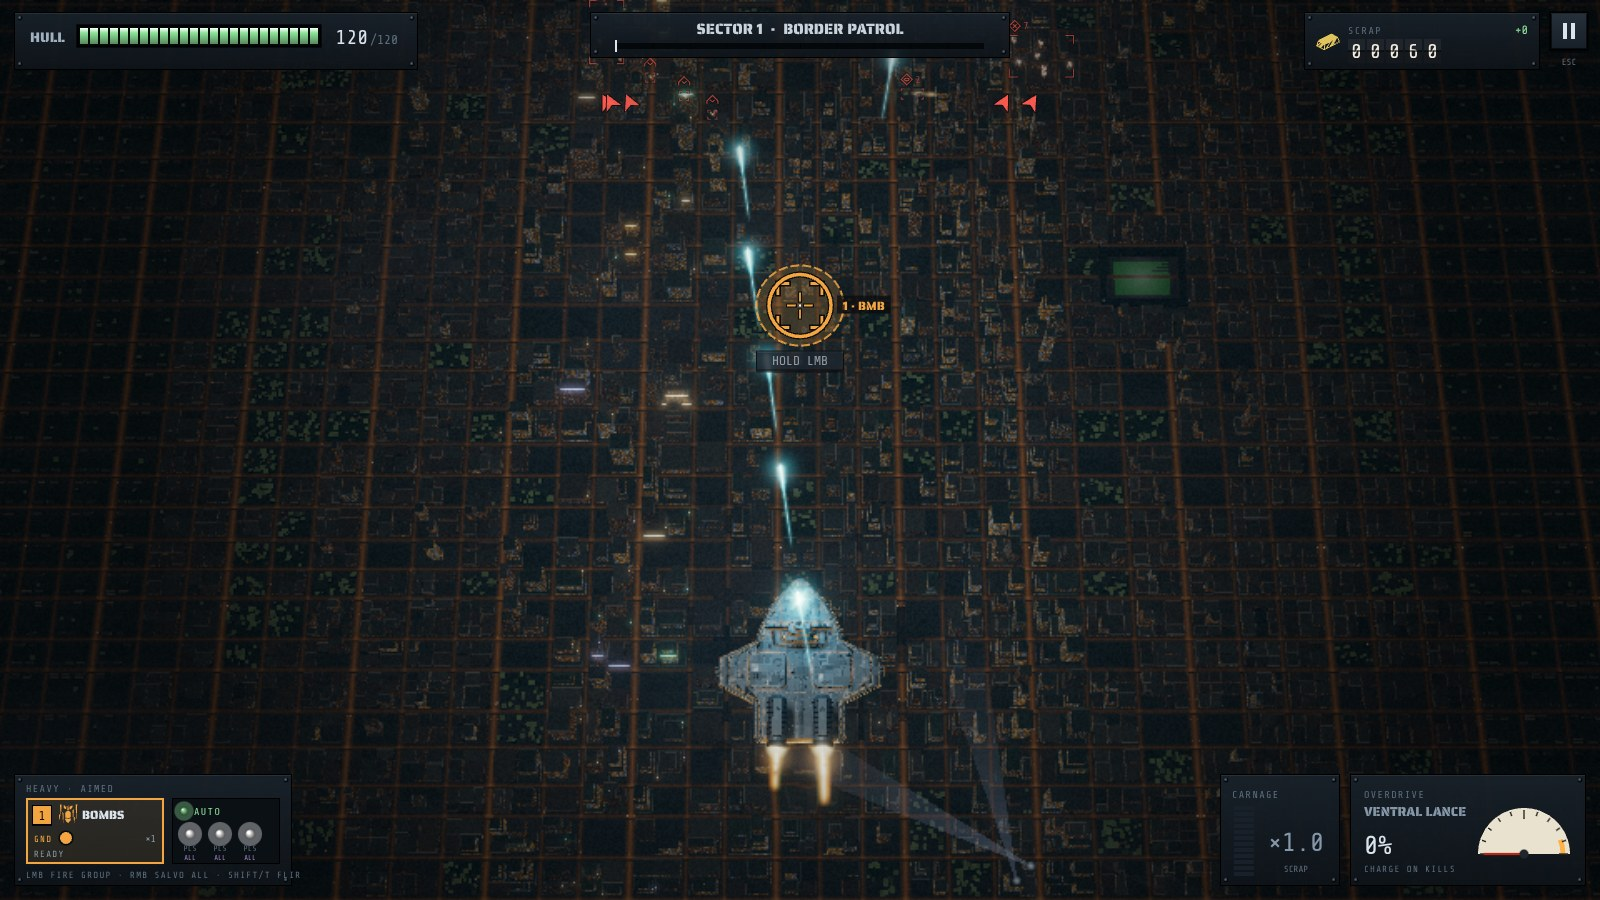
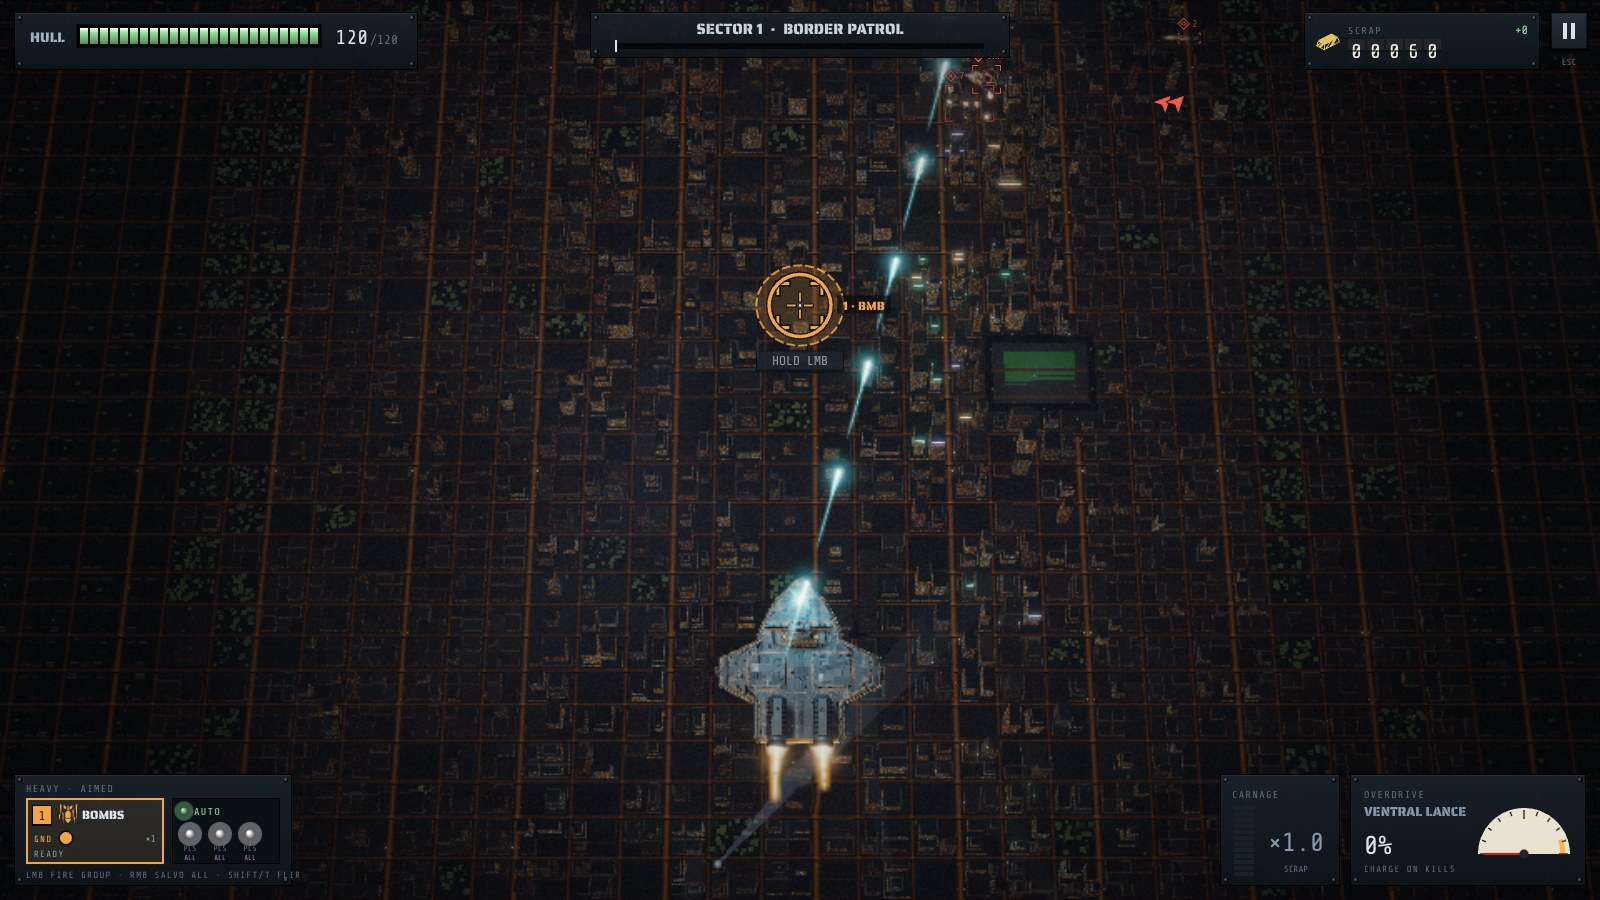
World polish: open boxes, smaller pools; docs and before/after screenshots
Claude-Session: https://claude.ai/code/session_013gCGajPg7k7sM5MfjeQhGC

diff --git a/src/render/world/city.ts b/src/render/world/city.ts
@@ -54,6 +54,15 @@ const LIGHT_COL: THREE.Color[] = [];
 interface Anchor { x: number; z: number; y: number; phase: number; b?: Bldg }
 interface Spot { x: number; y: number; z: number; s: number; seed: number; b?: Bldg }
 
+/** A unit box standing on y = 0 without its bottom face (never seen from above): a sixth fewer triangles. */
+function openBox() {
+  const g = new THREE.BoxGeometry(1, 1, 1).translate(0, 0.5, 0);
+  const idx = Array.from(g.index!.array as ArrayLike<number>);
+  g.setIndex(idx.slice(0, 18).concat(idx.slice(24)));
+  g.clearGroups();
+  return g;
+}
+
 /** An instanced flat quad batch with custom per-instance float attributes. */
 function quadBatch(max: number, names: string[], mat: THREE.Material) {
   const g = new THREE.InstancedBufferGeometry();
@@ -133,12 +142,12 @@ export class CityLayer implements Layer {
     const dome = new THREE.SphereGeometry(0.5, 14, 6, 0, Math.PI * 2, 0, Math.PI / 2).scale(1, 2, 1);
     dome.computeVertexNormals();
     this.bld = [
-      new BldBatch(new THREE.BoxGeometry(1, 1, 1).translate(0, 0.5, 0), mat, MAX_BLD),
+      new BldBatch(openBox(), mat, MAX_BLD),
       new BldBatch(new THREE.CylinderGeometry(0.5, 0.5, 1, 12).translate(0, 0.5, 0), mat, MAX_RND),
       new BldBatch(dome, mat, MAX_RND),
     ];
 
-    this.props = new THREE.InstancedMesh(new THREE.BoxGeometry(1, 1, 1).translate(0, 0.5, 0), cheapLights(new THREE.MeshLambertMaterial(), 'props'), MAX_PROP);
+    this.props = new THREE.InstancedMesh(openBox(), cheapLights(new THREE.MeshLambertMaterial(), 'props'), MAX_PROP);
     this.props.instanceColor = new THREE.InstancedBufferAttribute(new Float32Array(MAX_PROP * 3), 3);
     Object.assign(this.props, { count: 0, frustumCulled: false, receiveShadow: true });
 
@@ -278,7 +287,7 @@ export class CityLayer implements Layer {
         // Pinpoints are authored at their real size; from this altitude they need a couple of pixels to read, and they
         // stay just under the bloom threshold (a crisp point, not a glowing ball: only fires bloom).
         if (L.k === 9) { this.light(X(L.x), R(L.h), Z(L.cy), R(L.s), LIGHT_COL[L.c] ?? white, L.a, 9, 0, R(L.len ?? 10), L.ax ?? 0); continue; }
-        const pool = L.k === 1 || L.k === 4, sz = L.k === 4 ? L.s * 2.3 : pool ? L.s : Math.max(2.8, L.s * 2.6);
+        const pool = L.k === 1 || L.k === 4, sz = L.k === 4 ? L.s * 1.9 : pool ? L.s : Math.max(2.8, L.s * 2.6);
         const i = this.light(X(L.x), R(L.h), Z(L.cy), R(sz), LIGHT_COL[L.c] ?? white, pool ? L.a * (L.k === 4 ? 0.6 : 1.3) : Math.min(0.4, 0.12 + L.a * 0.45), L.k, L.p);
         if (L.b && i >= 0) this.bLights.push({ i, b: L.b });
         if (L.k === 8) this.sweeps.push({ x: X(L.x), y: R(L.h), z: Z(L.cy), s: R(L.s), seed: L.p, b: L.b });

diff --git a/docs/DESIGN.md b/docs/DESIGN.md
@@ -54,11 +54,13 @@ Everything is seen from very high up at night, in one stylized language: dark ma
 
 | Biome | Ground | Lights and structures | Set pieces | Destruction |
 | --- | --- | --- | --- | --- |
-| **Sodium City** (night city) | Asphalt grid, parks | Window grids, street glows, a teal-amber neon strip down one side of the core, traffic drift, searchlights | Floodlit stadium (a green pitch under four masts), TV tower with a beacon | Collapse, burning floors, rubble, craters; the blackout follows the ship |
-| **Iron Harbour** (port) | Dark water on the left with moonlit glitter, a pale line of surf; straight quays alternating with a natural shore | Gantry cranes with booms over the berths, colour-blocked container stacks under sodium masts, ships alongside with deck lights, tugs and freighters under way with V-wakes, channel buoys, warehouse district | Lighthouse on a breakwater sweeping its beam, oil terminal (tanker at a T-jetty, tank farm), drydock | Cranes, containers, ships and tank farms collapse and burn; tankers and tanks chain-react and spill burning oil; blasts on open water throw spray, no crater |
-| **Kestrel Airbase** | Dark grass, tree lines | Runways along the flight path with white edge and centre lights, teal threshold bars, amber end bars, an approach-light "rabbit" strobing toward the threshold; parallel taxiways with blue edges and green centre lines; apron floodlights, hangars with lit doors, control tower with a rotating white/teal beacon | Giant transport on the apron, hardened shelters, radar station | Parked aircraft burn and spill fuel; ammunition igloos and fuel farms chain-react |
-| **Glass Desert** | Dune ridges as soft graded shapes catching the moon, flat-topped mesas with hard escarpments, a dry wadi with palms | Walled adobe compounds with one warm light, a highway with convoys (headlight trains), a pipeline with pump stations, truck stops, oil fields of nodding donkeys with flare stacks, an oasis village with a dome and minaret | Rocket launch site (floodlit pad, gantry, flame trench), gas-oil separation plant, old citadel | Wellheads, flares, tanks and the rocket go up in fireballs and leave burning oil on the sand |
-| **White Range** (snow mountains) | Ridged mountains with cold moonlit faces and blue shadows, valleys, pines below the tree line, frozen lakes with crack lines | Valley roads with a few headlights, villages of snow-roofed cabins with warm windows and sodium street lamps, ice-fishing huts, ski-lift lights | Dam holding a frozen reservoir, pass fort, radar on the summit | Cabins collapse and burn; frozen lakes crack open into black water with steam; pines near a blast catch |
-| **Deepwood** (forest) | Dense canopy of clumped crowns catching the moon, clearings, clear-cuts, a winding river and lakes | Logging roads and spurs to clear-cut landings with log piles, small towns and farmsteads, river barges, a bridge where the road crosses the river | Lumber mill with a smoking stack and log rafts, a river dam, fire lookout tower | **Wildfire**: hits on the canopy start fires that run downwind through the trees for many seconds, setting cabins alight |
+| **Sodium City** (night city) | Asphalt grid, parks | Window grids, street glows, a teal-amber neon strip down one side of the core, traffic drift, searchlights | Floodlit stadium (a green pitch inside a ring of twelve floodlight masts), TV tower with a beacon | Collapse, burning floors, rubble, craters; the blackout follows the ship |
+| **Iron Harbour** (port) | Black water on the left with moonlit glitter and surf; pale concrete quays and yards; a darker district inland | Gantry cranes with booms over the berths and work lights on the ships, colour-blocked container stacks under broad sodium washes, straddle carriers, a logistics belt of lit loading docks and truck parks, ships alongside, at anchor and under way with V-wakes, channel buoys. Every natural-shore stretch carries something: a shipyard (hulls on slipways, tower cranes, welding sparks), a coastal refinery with a flare, a marina behind a lit breakwater, or a fishing village. Port lights run on their own generators: they stay on when the city grid dies under the ship | Lighthouse at the end of a long breakwater sweeping a twin beam over the sea, oil terminal (tanker at a T-jetty, a big floodlit tank farm), drydock (a ship in a black basin under two portal cranes) | Cranes, containers, ships and tank farms collapse and burn; tankers and tanks chain-react and spill burning oil; blasts on open water throw spray, no crater |
+| **Kestrel Airbase** | Near-black grass; dark runway asphalt with pale shoulders; a pale floodlit apron | Runways along the flight path drawn as two rails of white light (edge and centre lights plus a faint glowing line), teal threshold bars, amber end bars, an approach-light "rabbit" strobing toward the threshold; parallel taxiways with glowing blue edge lines and green centre lines; aircraft taxiing with wingtip lights and a pulsing beacon, service trucks on the apron; hangars with lit doors, control tower with a rotating white/teal beacon | Giant transport on its own floodlit pad, a row of hardened shelters with lit mouths, radar station with a rotating beacon | Parked aircraft burn and spill fuel; ammunition igloos and fuel farms chain-react |
+| **Glass Desert** | Long soft dune swells catching the moon (no knife-edge crests), flat-topped mesas with hard escarpments, a dry wadi with palms | Walled adobe compounds with one warm light, a highway with convoys (headlight trains), a pipeline with pump stations, truck stops, oil fields of nodding donkeys with flare stacks, an oasis village with a dome and minaret | Rocket launch site (a ring of floodlights, two searchlights sweeping the sky, lit gantry, flame trench), gas-oil separation plant with a line of flares, old citadel with its town | Wellheads, flares, tanks and the rocket go up in fireballs and leave burning oil on the sand |
+| **White Range** (snow mountains) | Ridged mountains with cold moonlit faces and blue shadows, valleys, pines below the tree line, frozen lakes with crack lines | Valley roads with a few headlights, villages of snow-roofed cabins with warm windows and sodium street lamps, ice-fishing huts, ski-lift lights | Dam holding a frozen reservoir, its crest lit and the spillway glowing below; star fort astride the pass with a searchlight; radar on the summit | Cabins collapse and burn; frozen lakes crack open into black water with steam; pines near a blast catch |
+| **Deepwood** (forest) | Dense canopy of clumped crowns catching the moon, clearings, clear-cuts, a winding river and lakes | Logging roads and spurs to clear-cut landings with log piles, small towns and farmsteads, river barges, a bridge where the road crosses the river | Lumber mill with a smoking stack, log decks, log rafts and sodium yard lights; a river dam with a glowing spillway; fire lookout tower with a beacon | **Wildfire**: hits on the canopy start fires that run downwind through the trees for many seconds, setting cabins alight |
+
+Set pieces are placed before the rest of their row (so the yards and fields fill in around them), centred well inside the field so they scroll through the whole view clear of the HUD's side panels.
 
 The run is a journey around a ring of neighbours, **city → harbour → forest → mountains → desert → airbase → city**. Each sector covers two neighbours (the run seed picks where on the ring it starts): floors 0-2 fly over the first, floors 3-5 cross from the first into the second part-way through the fight (a coastline, a wooded shore, the snowline, a cold desert edge, a desert airstrip, the city's airport), and floors 6-10 and the boss fly over the second. The fight banner names the biome ("Sector 2 · White Range") and crossing the edge flashes the new name.

diff --git a/docs/TECH.md b/docs/TECH.md
@@ -196,8 +196,8 @@ building destroyed; combat (`groundBlast`) first multiplies it by `cityPay()` (b
   `roof` (snow 1 / sand 0.5), `fuel` (fireball and chain-blast size; tanks, silos, flares default 1), `spill` (ground fire it
   leaves, `Burn`). Styles add Adobe, Hangar (lit doors), Shell (pale, no windows), Hull (deck lights). Tier offsets rotate with `rot`.
 - **Lights, roads, movers**: `ch.lights` (`WLight`: colour `LC`, kind 0 lamp that blacks out, 2 always on, 3 blink, 4 pool that
-  never blacks out, 6 sequenced strobe, 7 rotating beacon, 8 lighthouse), `ch.segs` (strips at any angle: country roads, tracks,
-  breakwaters), `ch.movers` (boats with wakes, convoys and cars with headlights, barges; drawn per frame from `CITY.time` into the
+  never blacks out, 6 sequenced strobe, 7 rotating beacon, 8 lighthouse, 9 glowing line with `len` along cy (`ax` 0) or x (`ax` 1) that never blacks out), `ch.segs` (strips at any angle: country roads, tracks,
+  breakwaters), `ch.movers` (boats with wakes, convoys and cars with headlights, barges, taxiing aircraft `jet`; drawn per frame from `CITY.time` into the
   engine's glow/dark batches), `ch.zones` (rects of a known surface for queries).
 - **Destruction**: `worldBlast(x, y, r, dmg)` damages footprints (and roofs as seen), ignites, collapses, leaves a crater (spray
   instead on open water) and returns the scrap of what collapsed; it also sets `CITY.payK` to the pay of the biome it landed in, which
@@ -210,17 +210,25 @@ building destroyed; combat (`groundBlast`) first multiplies it by `cityPay()` (b
   structure): city 0.12, harbour 0.073, airbase 0.44, desert 0.2, mountains 0.18, forest 0.37. With them the economy table is
   s1 139 / s2 191 / s3 263 a fight (stock share 0.83 / 0.67 / 0.62), and `tests/unit/economy.test.ts` passes.
 - `DARK`: the blackout grid. The power dies around the dreadnought as it passes (windows, street lamps, pools of kind 1); shaders sample it.
-- **Renderer** (`city.ts`): terrain ground, flats (pads, roads, strips), buildings in three geometry batches, props, lights,
+- **Renderer** (`city.ts`; materials are Lambert with `cheapLights`): terrain ground, flats (pads, roads, strips), buildings in three geometry batches, props, lights,
   traffic (masked to the night city through the terrain's biome weight), craters, up to four searchlight beams: about 10 draw calls,
   refilled only when a row enters or leaves; per frame only damaged buildings and a few dozen glow/dark quads (vessels, convoys,
   flares, lighthouse sweeps, ground-fire smoke). No per-frame allocation.
 - **FLIR**: every world shader reads `uFlir` (`flirUniform`, src/render/flir.ts) and blends to a heat value: terrain, water, snow
   and sand cool (about 0.07-0.12), lit windows +0.12, lamps and pinpoints down to 18%, traffic 55%, burning buildings and ground
   fires hot (0.6-1.2).
-- **Performance** (SwiftShader, 1600 x 900 at 0.6 scale): the world tick averages 0.05-0.14 ms (worst 1-7 ms when a row is
-  generated); a frame costs about 190 ms of world rendering in the mountains against about 690 ms for the night city's 3000
-  windowed blocks (the ground shader itself about 100 ms there). Structures on screen: city ~2900, harbour ~1700, desert ~200,
-  airbase ~180, mountains ~160, forest ~120.
+- **Performance** (SwiftShader, 1600 x 900 at 0.6 scale). Measure the world with a synchronous scene render (`renderer.render`
+  plus a 1-pixel `readPixels`, best of 8, world on minus world off, sim frozen): the frame interval on this shared sandbox swings
+  by half between runs. The world tick averages 0.05-0.14 ms (worst 1-7 ms when a row is generated).
+  - Night city: about 990 ms before the polish pass (median of four runs, 942-1040) and about 650 ms after (561-857), about -35%.
+    What it took: world materials are Lambert instead of Standard (rough matte surfaces, cheaper BRDF); `cheapLights()` gives every
+    lit world material a point-light loop that skips lights that are off or out of range (the seven FX point lights sit at zero
+    intensity most frames, yet every world fragment paid for all of them: about 370 ms in the city); the full-block sidewalk pads are
+    gone (the city ground is their colour), one hash per window instead of four, urban ground skips the fine detail noise, narrower
+    road glows, boxes without bottom faces.
+  - Mountains about 130-190 ms, airbase about 190-280 ms; the polished harbour costs more than before (about 375-405 ms against
+    217-281) for its floodlight washes and denser yards, still well under the city.
+  Structures on screen: city ~2900, harbour ~1700, desert ~200, airbase ~180, mountains ~160, forest ~120.
 - Debug: `window.__city` = `{ CITY, DARK, TERR, FIRE, BIO, worldBlast, setBiome(a, b, edgeCy), setPieceIn(name), surfaceAt,
   isWater, isRunway, terrainAt }`; set piece names: stadium, tvtower, lighthouse, oilterminal, drydock, bigtransport, shelters,
   radar, launchsite, gasplant, citadel, dam, fort, mill, lookout. In dev, `window.__cityLayer`.

diff --git a/docs/ART.md b/docs/ART.md
@@ -59,7 +59,7 @@ The screen must read at a glance, like a top-down arcade shooter: a calm backdro
 | White Range | blue-white snow, blue shadows, black pines | warm cabin windows against cold snow | steel blue |
 | Deepwood | green-black canopy, moonlit crowns | sodium village lamps; wildfire orange | green-black |
 
-Rules for the world: shade relief comes from the moon (upper left), baked per terrain cell; lit faces are a cold emissive tint, never white. Pinpoints are authored at real size and drawn at least about 3 field units so they read. In the FLIR view terrain, water, snow and sand go cool grey, windows and lamps drop to 15-20%, fires, flares and burning oil stay white-hot.
+Rules for the world: shade relief comes from the moon (upper left), baked per terrain cell; lit faces are a cold emissive tint, never white. Pinpoints are authored at real size and drawn at least about 3 field units so they read, but stay just under the bloom threshold: a crisp point, never a glowing ball. Floodlights are a broad, soft wash on the ground (a lit patch of concrete, not a disc). Long lines of lights (runway and taxiway edges, quay edges, loading docks, spillways) also carry a faint glowing line so they read as lines from this altitude. Each biome needs a clear value structure: in the harbour black water, pale quays and yards, a darker district; at the airbase near-black grass, dark runway with pale shoulders, a pale floodlit apron. In the FLIR view terrain, water, snow and sand go cool grey, windows and lamps drop to 15-20%, fires, flares and burning oil stay white-hot.
 
 Rules:
 - Background glows never compete with gameplay: chromatic aberration pulses only on big blasts, and city lights stay below the bloom threshold except fires.
